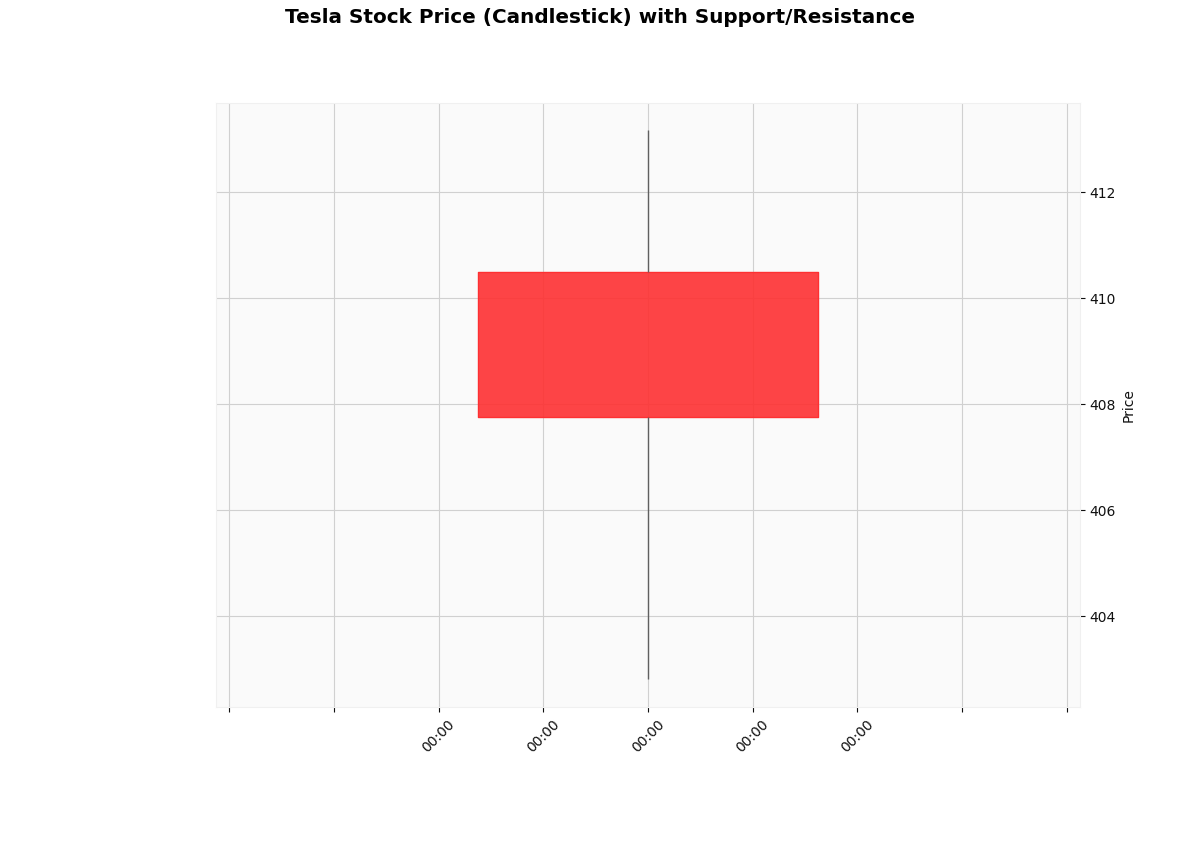
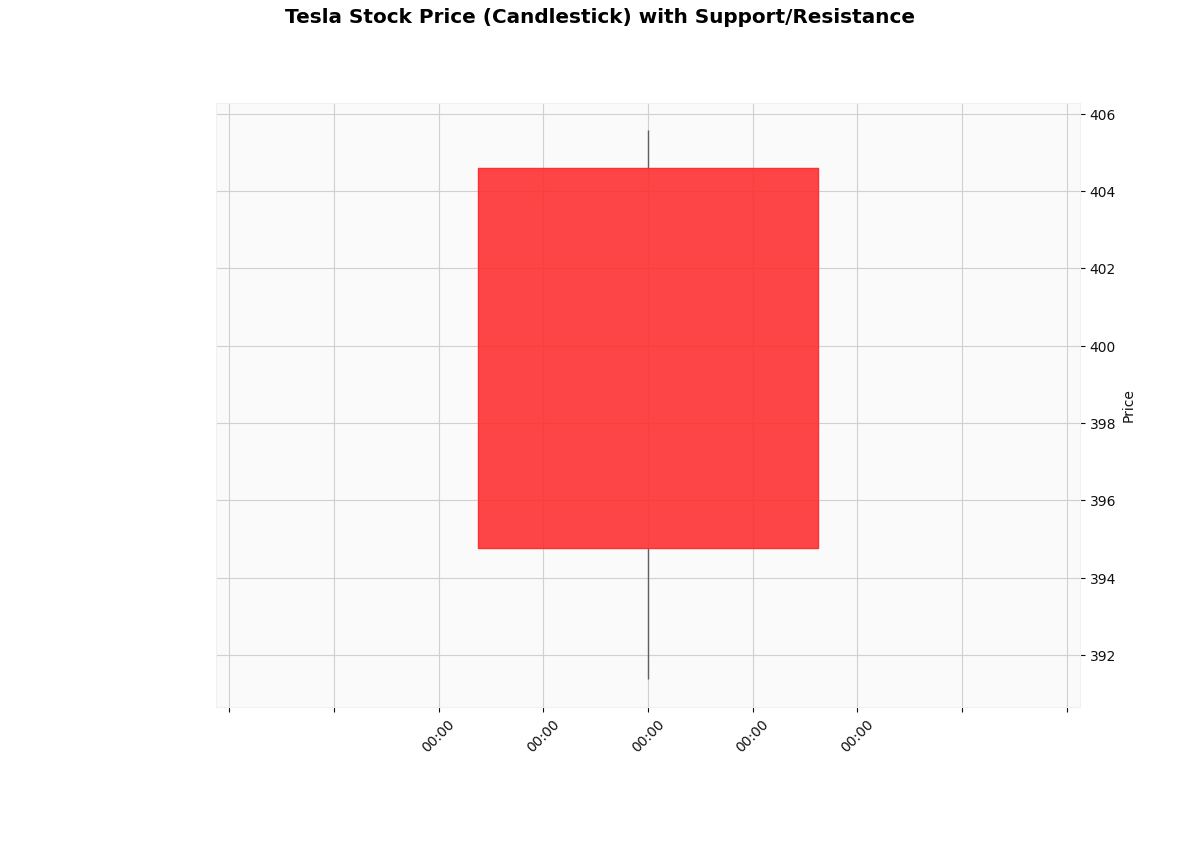
Daily update: Tesla stock chart and news

diff --git a/README.md b/README.md
@@ -69,7 +69,8 @@ For automated daily updates on GitHub, you need to set your API keys as **GitHub
 
 ## Tesla Stock Chart
 
-![Tesla Stock Chart](charts/tesla_stock_chart.png?20260713165453)
+![Tesla Stock Chart](charts/tesla_stock_chart.png?20260714155511)
+
 
 
 
@@ -415,6 +416,10 @@ _Source: ir.tesla.com - May 15, 2013 ... PALO ALTO, CA -- (Marketwired) -- 05/15
 
 _Source: ir.tesla.com - Dec 12, 2012 ... The new Tesla European Distribution Center will lead to the creation of approximately 50 jobs in the next few years. Tesla's decision to locate ..._
 
+**[Tesla Motors Announces 2012 Annual Shareholder Meeting](https://ir.tesla.com/press-release/tesla-motors-announces-2012-annual-shareholder-meeting)**
+
+_Source: ir.tesla.com - May 2, 2012 ... PALO ALTO, CA -- (Marketwire) -- 05/02/12 -- Tesla Motors, Inc. (NASDAQ: TSLA) today announced the date and location of its 2012 Annual ..._
+
 **[Tesla Motors Announces Follow-on Offering | Tesla Investor Relations](https://ir.tesla.com/press-release/tesla-motors-announces-follow-offering?releaseid=709221?releaseid=709221)**
 
 _Source: ir.tesla.com - Sep 25, 2012 ... PALO ALTO, CA -- (Marketwire) -- 09/25/12 -- Tesla Motors, Inc. (NASDAQ: TSLA) announced today a follow-on offering of 4,344,930 shares of ..._
@@ -423,15 +428,11 @@ _Source: ir.tesla.com - Sep 25, 2012 ... PALO ALTO, CA -- (Marketwire) -- 09/25/
 
 _Source: ir.tesla.com - Sep 24, 2012 ... Tesla revealed the locations of the first six Supercharger stations, which will allow the Model S to travel long distances with ultra fast charging._
 
-**[Tesla Motors Announces 2012 Annual Shareholder Meeting](https://ir.tesla.com/press-release/tesla-motors-announces-2012-annual-shareholder-meeting)**
+**[Tesla Motors Delivers World's First Premium Electric Sedan to ...](https://ir.tesla.com/press-release/tesla-motors-delivers-worlds-first-premium-electric-sedan)**
 
-_Source: ir.tesla.com - May 2, 2012 ... PALO ALTO, CA -- (Marketwire) -- 05/02/12 -- Tesla Motors, Inc. (NASDAQ: TSLA) today announced the date and location of its 2012 Annual ..._
+_Source: ir.tesla.com - Jun 22, 2012 ... Tesla Motors (NASDAQ: TSLA) delivered Model S, the world's first premium electric sedan, to its first customers at an invitation-only event at the Tesla ..._
 
 **[Tesla Motors Announces 2011 Annual Stockholder Meeting](https://ir.tesla.com/press-release/tesla-motors-announces-2011-annual-stockholder-meeting)**
 
 _Source: ir.tesla.com - Feb 25, 2011 ... PALO ALTO, Calif.--(BUSINESS WIRE)-- Tesla Motors, Inc. (Nasdaq: TSLA) announced today that its 2011 annual meeting of stockholders will be ..._
-
-**[Tesla Motors Announces Date for Second Quarter 2012 Financial ...](https://ir.tesla.com/press-release/tesla-motors-announces-date-second-quarter-2012-financial)**
-
-_Source: ir.tesla.com - Jul 19, 2012 ... Tesla Motors, Inc. (NASDAQ: TSLA) announced today that it will post its financial results for the second quarter ended June 30, 2012, after market close on ..._
 